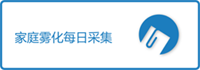
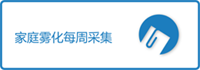
1. 按钮的字要改为“家庭雾化每周采集” 2. 家庭雾化的录入时间为周一到周三，如果代表在周四到周日录的话，在点击提交后， 跳出提示框“当前为补录时段，（回车）所填数据会覆盖上周数据，（回车）是否确认？”， 下面显示“确认”+“取消”，多一步确认操作。 3. 录入界面“人次”改为“人数” 4. 统计周一到周日，填写的数据为上周周一到周五的数字，出周报的时间为每周四，周四到周日为补录时间段，更新已经出的周报数字 5. 更新胸外科图片

Changed region(s): [[0.36, 0.4286, 0.45, 0.6286]]

diff --git a/LSKPI/WebContent/js/homecollection.js b/LSKPI/WebContent/js/homecollection.js
@@ -9,6 +9,29 @@ function confirm(title, dataId, doctorname) {
     $("#popupConfirm #delete_dr_cancel").unbind("click").click(function() { $("#popupConfirm").popup("close"); });
     $("#popupConfirm").popup("open");
 }
+function submitHomeCollection(){
+	var currentDate = new Date();
+	if( currentDate.getDay() > 3 ){
+	    $("#popupConfirm h1").html("系统信息");
+	    $("#popupConfirm p").html("当前为补录时段，<br/>所填数据会覆盖上周数据，<br/>是否确认？");
+	    $("#popupConfirm #home_collection_submit").unbind("click").click(function() { 
+	        $("#popupConfirm").popup("close");
+			$.mobile.showPageLoadingMsg('b','数据提交中',false);
+			if( $('.submit_btn') ){
+				$('.submit_btn').removeAttr("onclick");
+			}
+			$('#homeForm').submit();
+	    });
+	    $("#popupConfirm #home_collection_cancel").unbind("click").click(function() { $("#popupConfirm").popup("close"); });
+	    $("#popupConfirm").popup("open");
+	}else{
+		$.mobile.showPageLoadingMsg('b','数据提交中',false);
+        if( $('.submit_btn') ){
+            $('.submit_btn').removeAttr("onclick");
+        }
+        $('#homeForm').submit();
+	}
+}
 function showEdit(dataId,doctorname,hospitalName,hospitalCode) {
     $("#popupEdit #editdoctor_notification").html("");
     $("#popupEdit #doctorname").parent().removeClass("ls-error");

diff --git a/LSKPI/src/com/chalet/lskpi/service/HomeServiceImpl.java b/LSKPI/src/com/chalet/lskpi/service/HomeServiceImpl.java
@@ -29,9 +29,8 @@ public class HomeServiceImpl implements HomeService {
     
     public HomeData getHomeDataByDoctorId(String doctorId) throws Exception {
         try{
-            Date beginDate = DateUtils.getTheBeginDateOfCurrentWeek();
-            Date endDate = DateUtils.getGenerateWeeklyReportDate(new Date());
-            endDate = new Date(endDate.getTime() + 1 * 24 * 60 * 60 * 1000);
+            Date beginDate = DateUtils.getHomeCollectionBegionDate(new Date());
+            Date endDate = new Date(beginDate.getTime() + 7 * 24 * 60 * 60 * 1000);
             return homeDAO.getHomeDataByDoctorId(doctorId,beginDate,endDate);
         }catch(EmptyResultDataAccessException erd){
             logger.info("there is no record found.");
@@ -78,9 +77,8 @@ public class HomeServiceImpl implements HomeService {
 
     public List<HomeWeeklyData> getHomeWeeklyDataOfCurrentUser(UserInfo currentUser) throws Exception {
         List<HomeWeeklyData> homeWeeklyData = new ArrayList<HomeWeeklyData>();
-        Date lastWednesday = DateUtils.getGenerateWeeklyReportDate();
-        Date beginDate = new Date(lastWednesday.getTime() - 6* 24 * 60 * 60 * 1000);
-        Date endDate = new Date(lastWednesday.getTime() + 1 * 24 * 60 * 60 * 1000);
+        Date beginDate = DateUtils.getHomeWeeklyReportBegionDate();
+        Date endDate = new Date(beginDate.getTime() + 7 * 24 * 60 * 60 * 1000);
         switch(currentUser.getLevel()){
             case LsAttributes.USER_LEVEL_BM:
                 homeWeeklyData = homeDAO.getHomeWeeklyDataOfRSD(beginDate, endDate);
@@ -103,9 +101,8 @@ public class HomeServiceImpl implements HomeService {
     
     public List<HomeWeeklyData> getHomeWeeklyDataOfLowerUser(UserInfo currentUser) throws Exception {
         List<HomeWeeklyData> homeWeeklyData = new ArrayList<HomeWeeklyData>();
-        Date lastWednesday = DateUtils.getGenerateWeeklyReportDate();
-        Date beginDate = new Date(lastWednesday.getTime() - 6* 24 * 60 * 60 * 1000);
-        Date endDate = new Date(lastWednesday.getTime() + 1 * 24 * 60 * 60 * 1000);
+        Date beginDate = DateUtils.getHomeWeeklyReportBegionDate();
+        Date endDate = new Date(beginDate.getTime() + 7 * 24 * 60 * 60 * 1000);
         switch(currentUser.getLevel()){
             case LsAttributes.USER_LEVEL_BM:
                 break;
@@ -126,9 +123,8 @@ public class HomeServiceImpl implements HomeService {
     
     public HomeWeeklyData getHomeWeeklyDataOfUpperUser(UserInfo currentUser) throws Exception {
         HomeWeeklyData homeWeeklyData = new HomeWeeklyData();
-        Date lastWednesday = DateUtils.getGenerateWeeklyReportDate();
-        Date beginDate = new Date(lastWednesday.getTime() - 6* 24 * 60 * 60 * 1000);
-        Date endDate = new Date(lastWednesday.getTime() + 1 * 24 * 60 * 60 * 1000);
+        Date beginDate = DateUtils.getHomeWeeklyReportBegionDate();
+        Date endDate = new Date(beginDate.getTime() + 7 * 24 * 60 * 60 * 1000);
         switch(currentUser.getLevel()){
             case LsAttributes.USER_LEVEL_BM:
                 homeWeeklyData = homeDAO.getHomeWeeklyDataOfCountory(beginDate, endDate);

diff --git a/LSKPI/src/com/chalet/lskpi/utils/DateUtils.java b/LSKPI/src/com/chalet/lskpi/utils/DateUtils.java
@@ -255,8 +255,35 @@ public class DateUtils {
         return formatter_1.format(endThursDay)+"-"+formatter_1.format(endWenDay);
     }
     
+    public static Date getHomeCollectionBegionDate(Date date){
+        Calendar calendar = Calendar.getInstance();
+        calendar.setTime(date);
+        int dayInWeek = calendar.get(Calendar.DAY_OF_WEEK);
+        //1 - Sunday 2-Monday
+        Date beginDate = date;
+        if( dayInWeek >= 2 ){
+            beginDate = new Date(date.getTime() - (dayInWeek-2+7) * 24 * 60 * 60 * 1000 );
+        }else {
+            beginDate = new Date(date.getTime() - 13 * 24 * 60 * 60 * 1000);
+        }
+        beginDate = new Date(beginDate.getYear(),beginDate.getMonth(),beginDate.getDate());
+        return beginDate;
+    }
+    
+    public static Date getHomeWeeklyReportBegionDate(){
+        Date date = new Date();
+        Calendar calendar = Calendar.getInstance();
+        calendar.setTime(date);
+        int dayInWeek = calendar.get(Calendar.DAY_OF_WEEK);
+        //1 - Sunday 2-Monday
+        if( dayInWeek < 5 && dayInWeek >= 2 ){
+            date = new Date(date.getTime() - 7 * 24 * 60 * 60 * 1000 );
+        }
+        
+        return getHomeCollectionBegionDate(date);
+    }
+    
     public static void main(String[] args){
-        System.out.println(getTheBeginDateOfRefreshDate(new Date()));
-        System.out.println(getTheEndDateOfRefreshDate(new Date()));
+        System.out.println(getHomeWeeklyReportBegionDate());
     }
 }

diff --git a/LSKPI/src/com/chalet/lskpi/dao/HomeDAOImpl.java b/LSKPI/src/com/chalet/lskpi/dao/HomeDAOImpl.java
@@ -76,7 +76,7 @@ public class HomeDAOImpl implements HomeDAO {
     public void insert(final HomeData homeData, final String doctorId) throws Exception {
         logger.info("insert home data");
         
-        final String sql = "insert into tbl_home_data values(null,?,?,?,?,?,?,?,?,NOW(),NOW())";
+        final String sql = "insert into tbl_home_data values(null,?,?,?,?,?,?,?,?,date_sub(NOW(),interval 7 day),NOW())";
         KeyHolder keyHolder = new GeneratedKeyHolder();
         dataBean.getJdbcTemplate().update(new PreparedStatementCreator(){
             @Override
